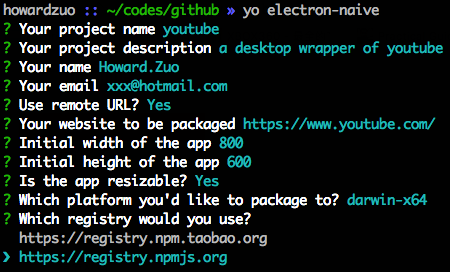
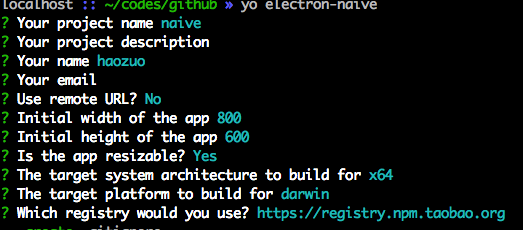
use electron-packager instead of gulp-electron since it's more nature

diff --git a/generators/app/index.js b/generators/app/index.js
@@ -98,19 +98,28 @@ var gen = generators.Base.extend({
                 default: true
             },
             {
-                type: 'checkbox',
-                name: 'platforms',
-                message: 'Which platform you\'d like to package to?',
+                type: 'list',
+                name: 'arch',
+                message: 'The target system architecture to build for',
                 choices: [
-                    'darwin-x64',
-                    'linux-ia32',
-                    'linux-x64',
-                    'win32-ia32',
-                    'win32-x64'
+                    'ia32',
+                    'x64',
+                    'all'
                 ],
-                validate: function(platforms) {
-                    return platforms.length > 0;
-                }
+                default: 'x64'
+            },
+            {
+                type: 'list',
+                name: 'platform',
+                message: 'The target platform to build for',
+                choices: [
+                    'linux',
+                    'win32',
+                    'darwin',
+                    'mas',
+                    'all'
+                ],
+                default: 'darwin'
             },
             {
                 type: 'list',
@@ -153,10 +162,9 @@ var gen = generators.Base.extend({
         }
         self.fs.copyTpl(self.templatePath('main.js.vm'), self.destinationPath('src/main.js'), self.obj);
         self.fs.copyTpl(self.templatePath('package.json.vm'), self.destinationPath('package.json'), self.obj);
-        self.fs.copyTpl(self.templatePath('src-package.json.vm'), self.destinationPath('src/package.json'), self.obj);
     },
     install: function() {
-        var deps = ['gulp', 'rimraf', 'gulp-electron', 'electron-prebuilt', 'semver-regex'];
+        var deps = ['gulp', 'rimraf', 'electron-packager', 'electron-prebuilt', 'semver-regex'];
         if (!this.answers.remote) {
             deps.push('gulp-livereload');
         }

diff --git a/README.md b/README.md
@@ -31,7 +31,7 @@ Once your project is created by this `generator`, go into the project folder
 
 Run `npm run dev` to launch app in dev mode.
 
-And `livereload` is enabled by default while you choose not starting from a `remote URL`, so you can easily view your updates as following:
+And `livereload` is enabled by default while you choose starting from a `local file`, so you can easily view your updates as following:
 
 ![](./docs/img/electron.gif)
 
